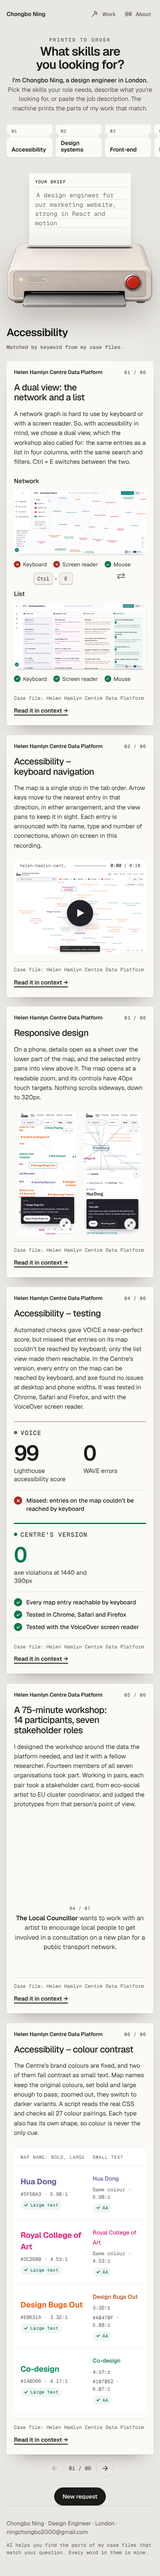
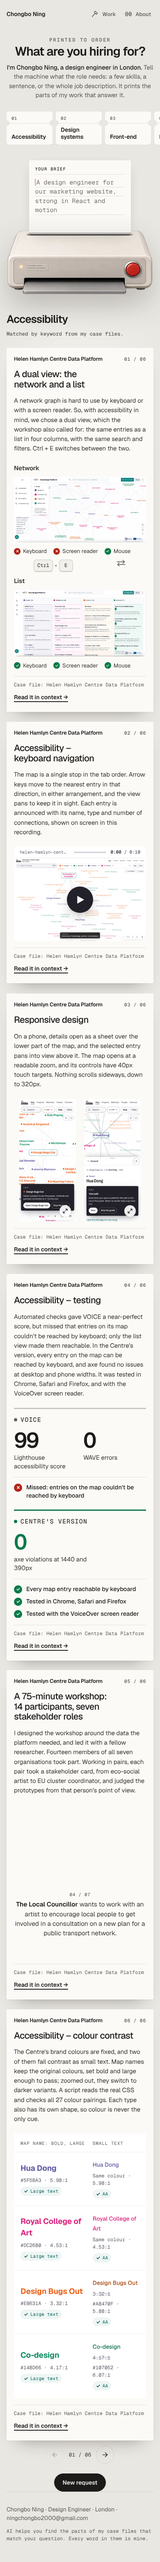
Home: "What are you hiring for?"
The headline asks the one question the page answers, and covers a pasted job
description as well as a list of skills. The intro drops the instructions the
printer already gives and says what to do in one sentence. Same words on /ask
and the Open Graph image.

Claude-Session: https://claude.ai/code/session_01QqmSAfmNMzTCx9ZFJoDrrH

Changed region(s): [[0.0308, 0.0, 0.9538, 0.9354], [0.0923, 0.9354, 0.1538, 0.9666], [0.3385, 0.9354, 0.3692, 0.9666]]

diff --git a/src/app/page.tsx b/src/app/page.tsx
@@ -37,11 +37,11 @@ export default function Home() {
       <main id="main" tabIndex={-1}>
         <p className="eyebrow">Printed to order</p>
         <h1 id="home-title" className="home-h1">
-          What skills are you looking for?
+          What are you hiring for?
         </h1>
         <p className="home-intro">
-          <b>I&apos;m {profile.name}, a design engineer in {profile.location}.</b> Pick the skills your role needs, describe what
-          you&apos;re looking for, or paste the job description. The machine prints the parts of my work that match.
+          <b>I&apos;m {profile.name}, a design engineer in {profile.location}.</b> Tell the machine what the role needs: a few
+          skills, a sentence, or the whole job description. It prints the parts of my work that answer it.
         </p>
         <PrintedToOrder cards={buildCardIndex()} media={sheetMedia()} labelledBy="home-title" topics={shownTopics()} />
       </main>

diff --git a/src/app/opengraph-image.tsx b/src/app/opengraph-image.tsx
@@ -1,10 +1,10 @@
 import { profile } from "@content";
 import { OG_CONTENT_TYPE, OG_SIZE, printerImage } from "@/lib/og";
 
-export const alt = `${profile.name}, ${profile.title} in ${profile.location}. What skills are you looking for? Choose skills or describe the role, and a printer prints the projects that show them.`;
+export const alt = `${profile.name}, ${profile.title} in ${profile.location}. What are you hiring for? Tell a printer what the role needs and it prints the parts of the work that answer it.`;
 export const size = OG_SIZE;
 export const contentType = OG_CONTENT_TYPE;
 
 export default function Image() {
-  return printerImage({ eyebrow: "Printed to order", title: "What skills are you looking for?" });
+  return printerImage({ eyebrow: "Printed to order", title: "What are you hiring for?" });
 }

diff --git a/src/app/ask/page.tsx b/src/app/ask/page.tsx
@@ -58,7 +58,7 @@ export default async function AskPage({ searchParams }: Props) {
     .filter((c): c is SheetCard => Boolean(c));
   const runs = projectRuns(sheets);
   const picked = !brief.trim() ? topicsToLabels(topics) : [];
-  const title = result ? resultTitle({ asked: result.asked, startHere: result.matched === "start-here", picked }) : (error ?? "What skills are you looking for?");
+  const title = result ? resultTitle({ asked: result.asked, startHere: result.matched === "start-here", picked }) : (error ?? "What are you hiring for?");
 
   return (
     <div className="wrap">

diff --git a/docs/HANDOFF.md b/docs/HANDOFF.md
@@ -21,7 +21,7 @@ Paste this into a new conversation. It gives the full background, then the first
 
 Recruiters don't ask for a portfolio; they ask to see work. You tell the machine what skills you need, and it prints exactly that.
 
-- Home: eyebrow "Printed to order", h1 "What skills are you looking for?", 8 skill cards (Accessibility, Design systems, Front‑end, Motion, Web and brand, AI tools, Research, Data), then a photographed cream printer (`public/printer.webp`, overlays positioned in % of the image).
+- Home: eyebrow "Printed to order", h1 "What are you hiring for?", 8 skill cards (Accessibility, Design systems, Front‑end, Motion, Web and brand, AI tools, Research, Data), then a photographed cream printer (`public/printer.webp`, overlays positioned in % of the image).
 - The paper rising from the printer's top slot is the input (type a brief or paste a JD; typed examples cycle). Selected skills show as chips on the paper. The red button prints.
 - Processing: step lines print on the paper. Results: up to six cards that answer the ask best, across all projects (several from one project when they answer best, grouped together), shown as a strip you can swipe, click or arrow through.
 - "Full project →" goes to `/work/<slug>#<section>`, a case file with a parts rail (01…n) that lands on that section.
